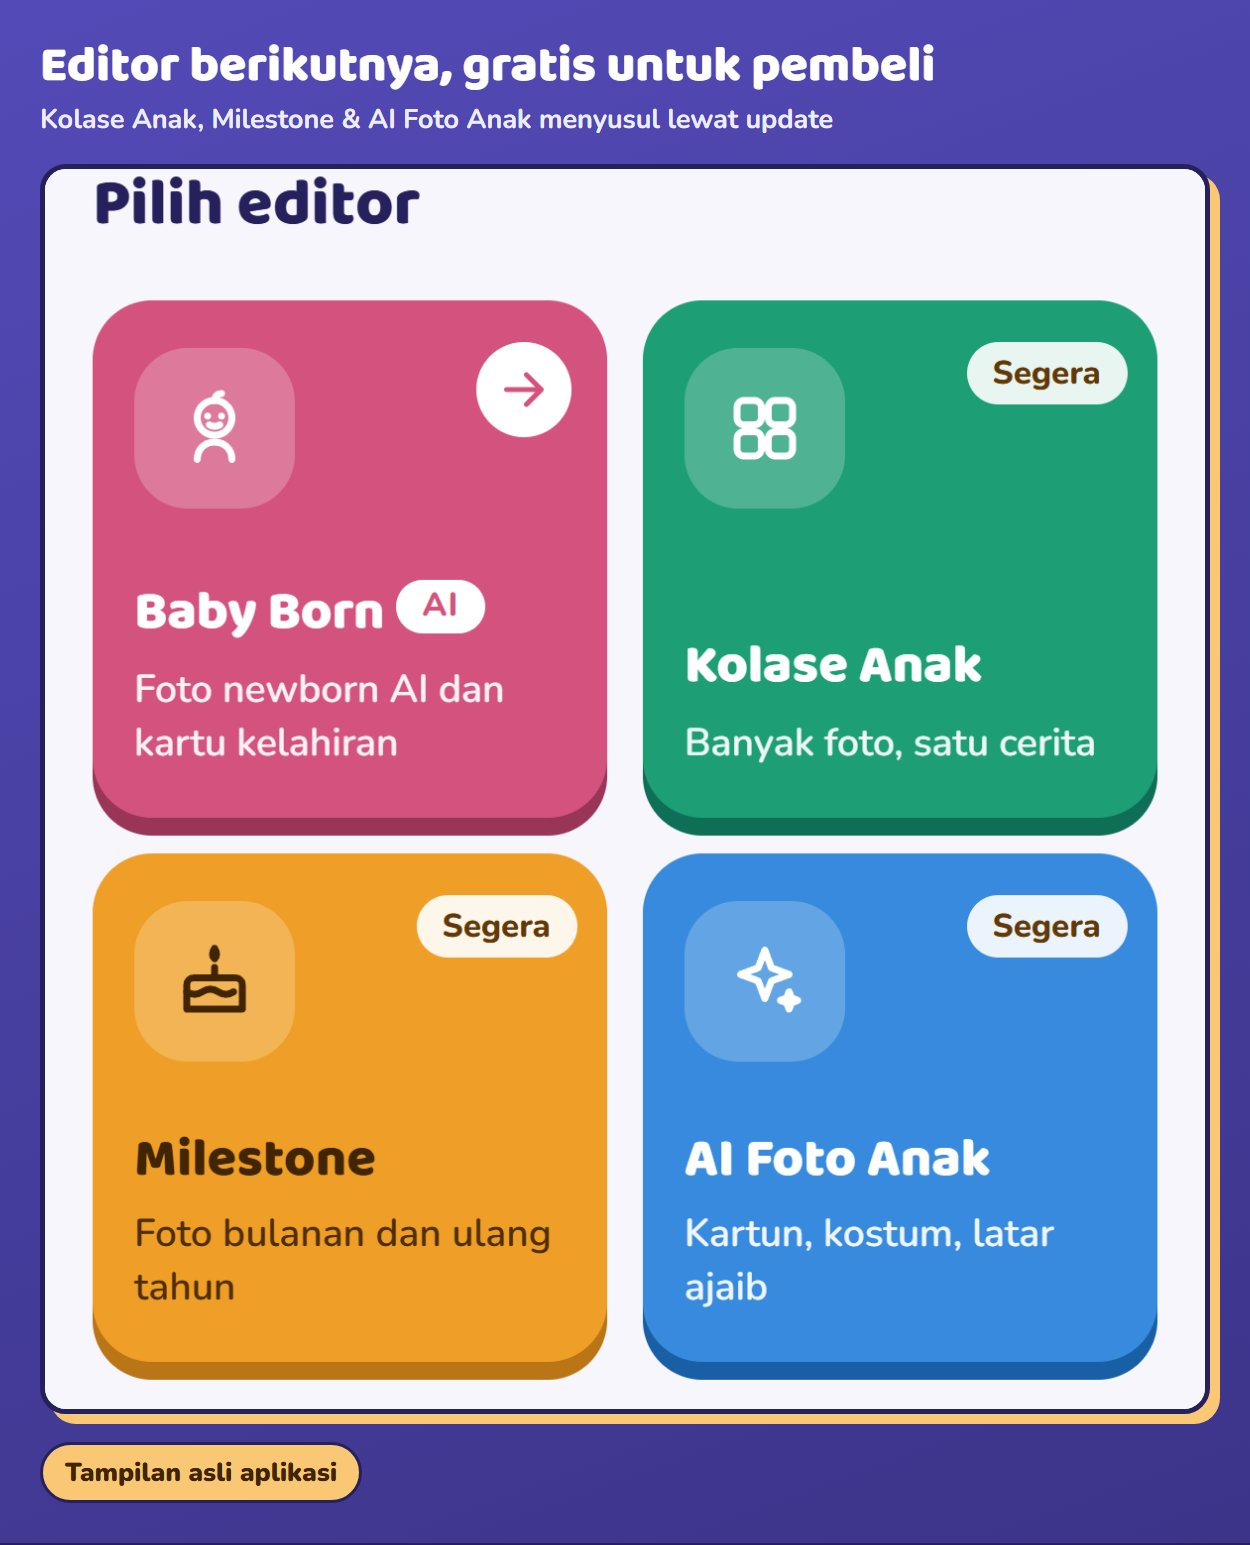
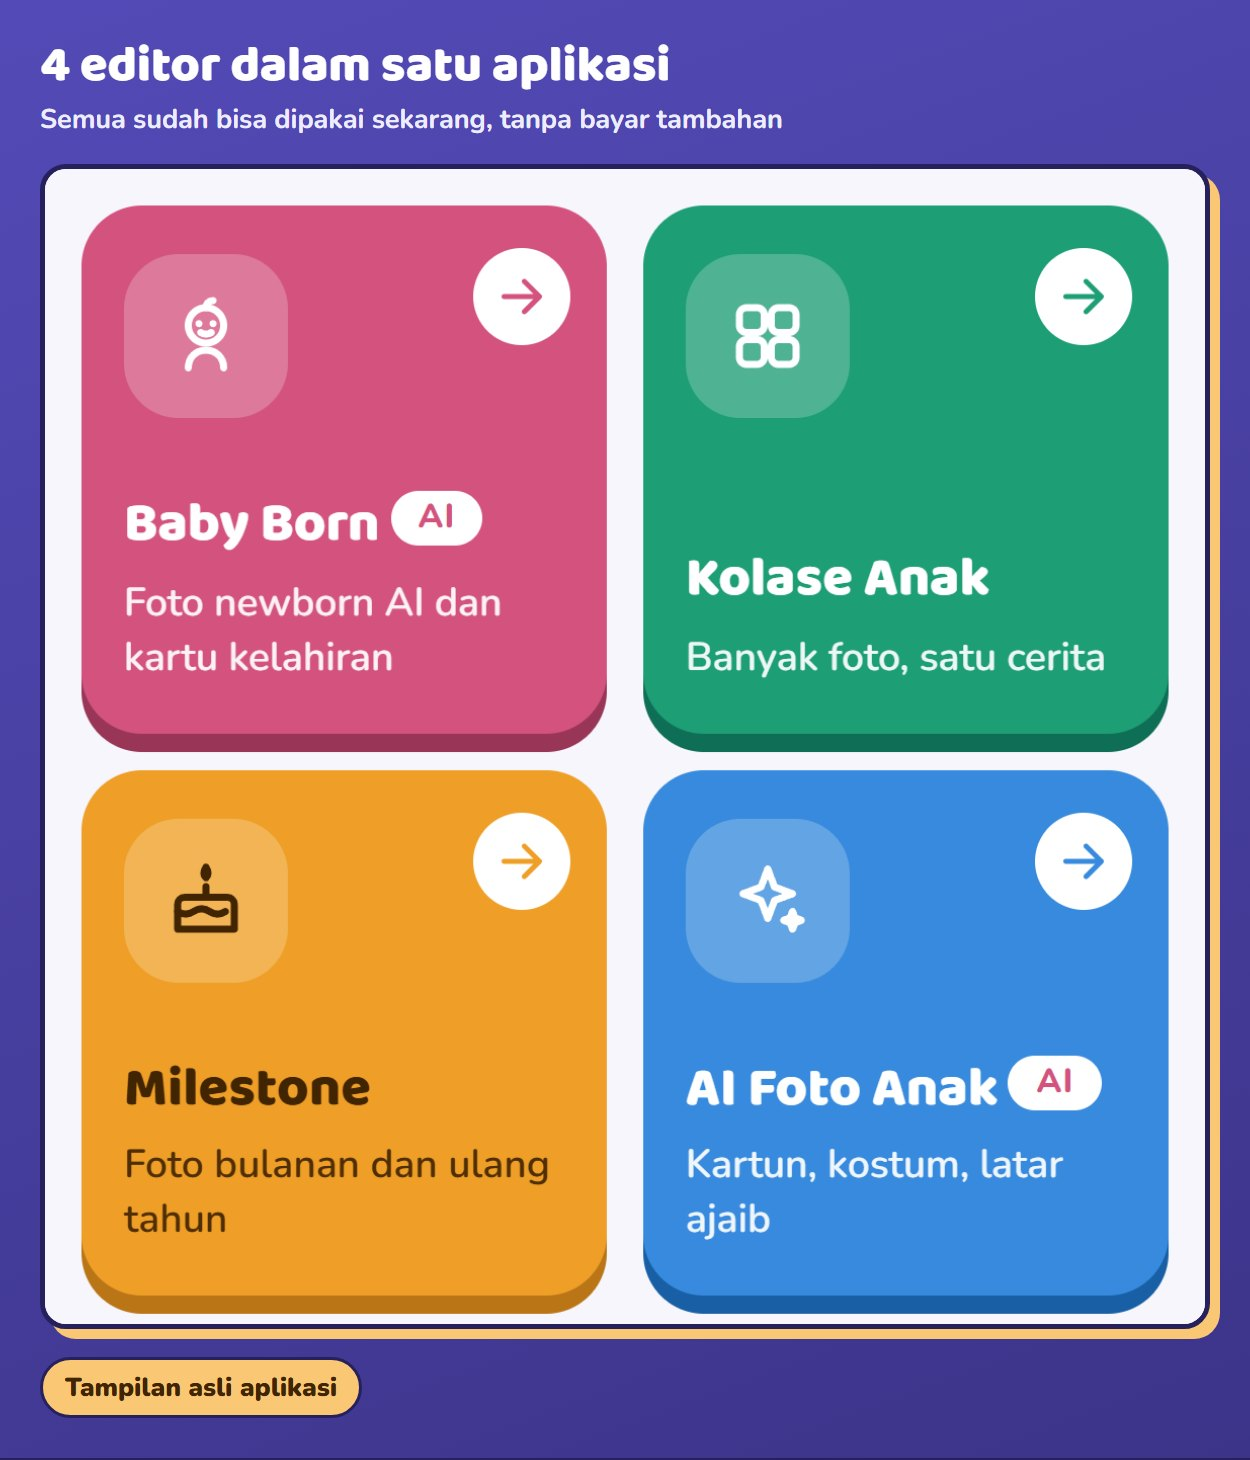
aset: LP AI STUDIO KIDS fitur lengkap (AI Foto Anak, Kolase, Milestone)

Changed region(s): [[0.0312, 0.0308, 0.9672, 0.9863]]

diff --git a/aset/ai-studio-kids/lp-lynk.html b/aset/ai-studio-kids/lp-lynk.html
@@ -1,15 +1,15 @@
 <div style="font-family:-apple-system,BlinkMacSystemFont,'Segoe UI',Roboto,Helvetica,Arial,sans-serif;max-width:600px;width:100%;margin:0 auto;box-sizing:border-box;padding:10px;background-color:#F7F6FD;">
 
   <div style="background-color:#26215C;border:2px solid #26215C;border-radius:10px;overflow:hidden;margin-bottom:12px;box-shadow:3px 3px 0 #FAC775;padding:9px 14px;text-align:center;">
-    <p style="margin:0;font-size:12px;font-weight:800;color:#FAC775;line-height:1.4;">👶 AI STUDIO KIDS &nbsp;·&nbsp; 🔥 Harga Perkenalan Rp99.000 &nbsp;·&nbsp; ✅ Sekali Bayar &nbsp;·&nbsp; 📱 Langsung dari HP</p>
+    <p style="margin:0;font-size:12px;font-weight:800;color:#FAC775;line-height:1.4;">👶 AI STUDIO KIDS &nbsp;·&nbsp; 🔥 Harga Perkenalan Rp99.000 &nbsp;·&nbsp; 🧩 4 Editor Lengkap &nbsp;·&nbsp; ✅ Sekali Bayar &nbsp;·&nbsp; 📱 Langsung dari HP</p>
   </div>
 
   <div style="background-color:#26215C;border:3px solid #26215C;border-radius:14px;overflow:hidden;margin-bottom:14px;box-shadow:6px 6px 0 #D4537E;">
     <img src="https://arulbarker.github.io/panduan/aset/ai-studio-kids/ks-sampul.jpg" alt="AI STUDIO KIDS" style="width:100%;display:block;">
     <div style="padding:18px 18px 16px;text-align:center;background:linear-gradient(160deg,#534AB7,#3C3489);">
-      <div style="display:inline-block;background-color:#FAC775;color:#412402;font-weight:900;font-size:11px;padding:5px 14px;border:2px solid #26215C;border-radius:20px;margin-bottom:12px;letter-spacing:.5px;">FOTO NEWBORN AI · KARTU KELAHIRAN · EDITOR</div>
+      <div style="display:inline-block;background-color:#FAC775;color:#412402;font-weight:900;font-size:11px;padding:5px 14px;border:2px solid #26215C;border-radius:20px;margin-bottom:12px;letter-spacing:.5px;">FOTO NEWBORN AI · FOTO ANAK AI · KOLASE · MILESTONE</div>
       <div style="font-size:20px;font-weight:900;color:#fff;margin:0 0 8px;line-height:1.3;">Foto Newborn Ala Studio, <span style="color:#FAC775;">Cukup dari HP</span></div>
-      <p style="margin:0;font-size:13px;font-weight:600;color:#EEEDFE;line-height:1.55;">Unggah satu foto si kecil → pilih tema → AI menyulapnya jadi foto newborn ala studio. Wajahnya tetap si kecil.</p>
+      <p style="margin:0;font-size:13px;font-weight:600;color:#EEEDFE;line-height:1.55;">Unggah satu foto si kecil → pilih tema → AI menyulapnya jadi foto newborn ala studio. Wajahnya tetap si kecil. Plus foto anak jadi kartun &amp; kostum impian, kolase, dan milestone bulanan.</p>
     </div>
   </div>
 
@@ -26,7 +26,7 @@
       <p style="margin:0;font-size:14px;font-weight:700;color:#26215C;line-height:1.5;">✗ Mau bikin kartu kelahiran untuk keluarga, tapi tidak bisa desain</p>
     </div>
     <div style="border-left:4px solid #D4537E;padding:10px 14px;background-color:#FBEAF0;border-radius:0 8px 8px 0;">
-      <p style="margin:0;font-size:14px;font-weight:700;color:#26215C;line-height:1.5;">✗ Foto di galeri HP banyak, tapi belum ada yang "jadi" untuk dibagikan</p>
+      <p style="margin:0;font-size:14px;font-weight:700;color:#26215C;line-height:1.5;">✗ Foto bulanan, ulang tahun &amp; liburan menumpuk di galeri HP, tapi belum ada yang "jadi" untuk dibagikan</p>
     </div>
   </div>
 
@@ -37,7 +37,7 @@
   <div style="background:linear-gradient(135deg,#534AB7,#3C3489);border:3px solid #26215C;border-radius:14px;padding:22px 18px;margin-bottom:14px;text-align:center;box-shadow:6px 6px 0 #26215C;">
     <p style="margin:0 0 6px;font-size:11px;font-weight:700;color:#FAC775;letter-spacing:2px;text-transform:uppercase;">Solusinya</p>
     <p style="font-size:24px;font-weight:900;color:#fff;margin:0 0 8px;letter-spacing:-1px;">AI STUDIO KIDS ✨</p>
-    <p style="margin:0 0 14px;font-size:13px;color:#EEEDFE;font-weight:500;line-height:1.7;">Aplikasi AI untuk orang tua: ubah foto si kecil jadi <strong style="color:#FAC775;">foto newborn ala studio</strong>, lalu jadikan <strong style="color:#FAC775;">kartu kelahiran</strong> yang siap dibagikan atau dicetak.</p>
+    <p style="margin:0 0 14px;font-size:13px;color:#EEEDFE;font-weight:500;line-height:1.7;">Aplikasi AI untuk orang tua: ubah foto si kecil jadi <strong style="color:#FAC775;">foto newborn ala studio</strong>, lalu jadikan <strong style="color:#FAC775;">kartu kelahiran</strong>. Saat si kecil tumbuh, ubah fotonya jadi <strong style="color:#FAC775;">kartun &amp; kostum impian</strong>, susun <strong style="color:#FAC775;">kolase</strong>, dan abadikan <strong style="color:#FAC775;">milestone</strong> tiap bulan.</p>
     <p style="margin:0;font-size:13px;font-weight:700;color:#fff;line-height:1.6;">Unggah foto → pilih tema → AI bekerja → simpan &amp; bagikan 🎉</p>
   </div>
 
@@ -47,8 +47,8 @@
       <p style="margin:3px 0 0;font-size:11px;color:#EEEDFE;font-weight:700;line-height:1.3;">Studio putih, keranjang rotan, bulan &amp; bintang,<br>kostum hewan, Islami, batik Nusantara, dan lainnya</p>
     </div>
     <div style="width:100%;background:linear-gradient(135deg,#D4537E,#E07A9E);border:2px solid #26215C;border-radius:10px;padding:14px 6px;text-align:center;box-shadow:4px 4px 0 #26215C;margin-bottom:8px;">
-      <p style="margin:0;font-size:18px;font-weight:900;color:#fff;">8 Desain Kartu Kelahiran</p>
-      <p style="margin:3px 0 0;font-size:11px;color:#fff;font-weight:700;line-height:1.3;">Tinggal isi nama, tanggal, berat &amp; panjang lahir</p>
+      <p style="margin:0;font-size:18px;font-weight:900;color:#fff;">4 Editor dalam 1 Aplikasi</p>
+      <p style="margin:3px 0 0;font-size:11px;color:#fff;font-weight:700;line-height:1.3;">Baby Born · AI Foto Anak · Kolase Anak · Milestone<br>semuanya sudah bisa dipakai</p>
     </div>
     <div style="width:100%;background:linear-gradient(135deg,#FAC775,#FDE3B0);border:2px solid #26215C;border-radius:10px;padding:14px 6px;text-align:center;box-shadow:4px 4px 0 #26215C;">
       <p style="margin:0;font-size:16px;font-weight:900;color:#26215C;">±20–60 Detik</p>
@@ -72,8 +72,26 @@
       <img src="https://arulbarker.github.io/panduan/aset/ai-studio-kids/ks-desain.jpg" alt="8 desain kartu kelahiran" style="width:100%;border-radius:8px;border:2px solid #26215C;display:block;">
     </div>
 
-    <div style="border:2px solid #26215C;border-radius:10px;padding:14px;box-shadow:4px 4px 0 #26215C;background:linear-gradient(135deg,#FAEEDA,#FDE3B0);">
-      <p style="margin:0 0 4px;font-size:14px;font-weight:900;color:#26215C;">🎨 3. Edit Bebas &amp; Simpan</p>
+    <div style="border:2px solid #26215C;border-radius:10px;padding:14px;margin-bottom:10px;box-shadow:4px 4px 0 #26215C;background:linear-gradient(135deg,#E6F1FB,#CFE3F7);">
+      <p style="margin:0 0 4px;font-size:14px;font-weight:900;color:#26215C;">🪄 3. AI Foto Anak</p>
+      <p style="margin:0 0 8px;font-size:12px;color:#44403c;font-weight:500;line-height:1.55;">Ubah foto si kecil jadi <strong>kartun</strong> (3D, anime, cat air, buku cerita), pakai <strong>kostum impian</strong> (astronaut, putri, pangeran, pahlawan super, dokter, pilot, pemadam kebakaran), pindah ke <strong>latar ajaib</strong> (luar angkasa, bawah laut, hutan dongeng, istana), atau <strong>hapus latar</strong> jadi polos rapi. Total 17 gaya, pakaian selalu sopan.</p>
+      <img src="https://arulbarker.github.io/panduan/aset/ai-studio-kids/ks-aianak.jpg" alt="AI Foto Anak 17 gaya" style="width:100%;border-radius:8px;border:2px solid #26215C;display:block;">
+    </div>
+
+    <div style="border:2px solid #26215C;border-radius:10px;padding:14px;margin-bottom:10px;box-shadow:4px 4px 0 #26215C;background:linear-gradient(135deg,#E1F5EE,#C9EEDF);">
+      <p style="margin:0 0 4px;font-size:14px;font-weight:900;color:#26215C;">🧩 4. Kolase Anak</p>
+      <p style="margin:0 0 8px;font-size:12px;color:#44403c;font-weight:500;line-height:1.55;">Pilih 2–12 foto sekaligus, tulis judul acara (Liburan Seru, Hari Pertama Sekolah, Lebaran, dan lainnya), lalu pilih dari <strong>12 tata letak</strong>: grid, mozaik, polaroid, scrapbook, film strip, bentuk hati, dan lainnya. Atur warna, jarak, dan sudut foto.</p>
+      <img src="https://arulbarker.github.io/panduan/aset/ai-studio-kids/ks-kolase.jpg" alt="Kolase Anak 12 tata letak" style="width:100%;border-radius:8px;border:2px solid #26215C;display:block;">
+    </div>
+
+    <div style="border:2px solid #26215C;border-radius:10px;padding:14px;margin-bottom:10px;box-shadow:4px 4px 0 #26215C;background:linear-gradient(135deg,#FAEEDA,#FDE3B0);">
+      <p style="margin:0 0 4px;font-size:14px;font-weight:900;color:#26215C;">🎂 5. Milestone</p>
+      <p style="margin:0 0 8px;font-size:12px;color:#44403c;font-weight:500;line-height:1.55;">Foto <strong>bulanan</strong> (1–12 bulan), <strong>ulang tahun</strong>, dan <strong>momen pertama</strong> (gigi, langkah, kata pertama). Umur terisi otomatis, ada berat, tinggi &amp; "Sekarang aku bisa…". <strong>10 desain</strong>, termasuk Dulu &amp; Sekarang. Bulan depan cukup ketuk <strong>Lanjutkan seri</strong>: gayanya tetap, tinggal ganti foto.</p>
+      <img src="https://arulbarker.github.io/panduan/aset/ai-studio-kids/ks-milestone.jpg" alt="Milestone 10 desain" style="width:100%;border-radius:8px;border:2px solid #26215C;display:block;">
+    </div>
+
+    <div style="border:2px solid #26215C;border-radius:10px;padding:14px;box-shadow:4px 4px 0 #26215C;background:linear-gradient(135deg,#EEEDFE,#E2DFFB);">
+      <p style="margin:0 0 4px;font-size:14px;font-weight:900;color:#26215C;">🎨 6. Edit Bebas &amp; Simpan</p>
       <p style="margin:0;font-size:12px;color:#44403c;font-weight:500;line-height:1.55;">Ubah teks, tambah stiker, ganti latar. Unduh PNG/JPG atau PDF siap cetak. Karya tersimpan di <strong>Proyekku</strong>, dan data si kecil di <strong>Profil Anak</strong> terisi otomatis di semua editor.</p>
     </div>
 
@@ -83,10 +101,10 @@
   </div>
 
   <div style="background-color:#fff;border:3px solid #26215C;border-radius:14px;padding:20px 18px;margin-bottom:14px;box-shadow:6px 6px 0 #1D9E75;">
-    <p style="font-size:17px;font-weight:900;color:#26215C;margin:0 0 6px;">🎁 Editor Berikutnya, Gratis untuk Pembeli</p>
-    <p style="margin:0 0 12px;font-size:12px;color:#6E6A8E;font-weight:500;line-height:1.6;">Sekali bayar sekarang, editor baru yang menyusul ikut kamu dapat lewat update, tanpa bayar lagi.</p>
-    <img src="https://arulbarker.github.io/panduan/aset/ai-studio-kids/ks-editor.jpg" alt="Editor yang menyusul" style="width:100%;border-radius:8px;border:2px solid #26215C;display:block;margin-bottom:10px;">
-    <p style="margin:0;font-size:12px;color:#44403c;font-weight:600;line-height:1.6;">🧩 <strong>Kolase Anak</strong> · 🎂 <strong>Milestone</strong> (foto bulanan &amp; ulang tahun) · 🪄 <strong>AI Foto Anak</strong> (kartun, kostum, latar ajaib)</p>
+    <p style="font-size:17px;font-weight:900;color:#26215C;margin:0 0 6px;">✅ 4 Editor, Semua Sudah Tersedia</p>
+    <p style="margin:0 0 12px;font-size:12px;color:#6E6A8E;font-weight:500;line-height:1.6;">Bukan janji "menyusul": setelah bayar, keempat editor langsung bisa kamu pakai. Satu aplikasi, sekali bayar.</p>
+    <img src="https://arulbarker.github.io/panduan/aset/ai-studio-kids/ks-editor.jpg" alt="4 editor dalam satu aplikasi" style="width:100%;border-radius:8px;border:2px solid #26215C;display:block;margin-bottom:10px;">
+    <p style="margin:0;font-size:12px;color:#44403c;font-weight:600;line-height:1.6;">👶 <strong>Baby Born</strong> · 🪄 <strong>AI Foto Anak</strong> · 🧩 <strong>Kolase Anak</strong> · 🎂 <strong>Milestone</strong></p>
   </div>
 
   <div style="background-color:#fff;border:3px solid #26215C;border-radius:14px;padding:20px 18px;margin-bottom:14px;box-shadow:6px 6px 0 #26215C;">
@@ -106,10 +124,20 @@
       <p style="margin:4px 0 2px;font-size:14px;font-weight:800;color:#26215C;">Kartu Kelahiran · 8 desain</p>
       <p style="margin:0;font-size:11px;color:#6E6A8E;">Editor teks, stiker, latar · unduh PNG/JPG/PDF siap cetak</p>
     </div>
+    <div style="display:block;padding:11px 0;border-bottom:1px solid #ECEAF6;">
+      <span style="background-color:#26215C;color:#FAC775;font-weight:900;font-size:11px;padding:3px 8px;border:2px solid #26215C;border-radius:4px;">✓</span>
+      <p style="margin:4px 0 2px;font-size:14px;font-weight:800;color:#26215C;">AI Foto Anak · 17 gaya</p>
+      <p style="margin:0;font-size:11px;color:#6E6A8E;">Kartun, kostum impian, latar ajaib, hapus latar</p>
+    </div>
+    <div style="display:block;padding:11px 0;border-bottom:1px solid #ECEAF6;">
+      <span style="background-color:#26215C;color:#FAC775;font-weight:900;font-size:11px;padding:3px 8px;border:2px solid #26215C;border-radius:4px;">✓</span>
+      <p style="margin:4px 0 2px;font-size:14px;font-weight:800;color:#26215C;">Kolase Anak · 12 tata letak</p>
+      <p style="margin:0;font-size:11px;color:#6E6A8E;">2–12 foto, judul acara, warna, jarak &amp; sudut</p>
+    </div>
     <div style="display:block;padding:11px 0;">
-      <span style="background-color:#D4537E;color:#fff;font-weight:900;font-size:11px;padding:3px 8px;border:2px solid #26215C;border-radius:4px;">🎁</span>
-      <p style="margin:4px 0 2px;font-size:14px;font-weight:800;color:#D4537E;">Update editor baru gratis</p>
-      <p style="margin:0;font-size:11px;color:#6E6A8E;">Kolase Anak, Milestone, AI Foto Anak</p>
+      <span style="background-color:#26215C;color:#FAC775;font-weight:900;font-size:11px;padding:3px 8px;border:2px solid #26215C;border-radius:4px;">✓</span>
+      <p style="margin:4px 0 2px;font-size:14px;font-weight:800;color:#26215C;">Milestone · 10 desain</p>
+      <p style="margin:0;font-size:11px;color:#6E6A8E;">Bulanan, ulang tahun, momen pertama, lanjutkan seri</p>
     </div>
   </div>
 
@@ -133,11 +161,11 @@
     <p style="font-size:17px;font-weight:900;color:#26215C;margin:0 0 16px;padding-bottom:10px;border-bottom:3px solid #26215C;">❓ Pertanyaan yang Sering Ditanya</p>
     <div style="border-left:4px solid #534AB7;padding:12px 14px;margin-bottom:12px;background-color:#EEEDFE;border-radius:0 10px 10px 0;">
       <p style="margin:0 0 6px;font-size:14px;font-weight:900;color:#26215C;">Apakah benar sekali bayar?</p>
-      <p style="margin:0;font-size:12px;color:#6E6A8E;font-weight:500;line-height:1.55;">Ya. <strong>Rp99.000 sekali bayar</strong>, tanpa biaya bulanan. Editor baru yang menyusul juga gratis untuk pembeli.</p>
+      <p style="margin:0;font-size:12px;color:#6E6A8E;font-weight:500;line-height:1.55;">Ya. <strong>Rp99.000 sekali bayar</strong>, tanpa biaya bulanan. Keempat editor (Baby Born, AI Foto Anak, Kolase Anak, Milestone) sudah termasuk.</p>
     </div>
     <div style="border-left:4px solid #534AB7;padding:12px 14px;margin-bottom:12px;background-color:#EEEDFE;border-radius:0 10px 10px 0;">
       <p style="margin:0 0 6px;font-size:14px;font-weight:900;color:#26215C;">Apakah wajah si kecil tetap sama?</p>
-      <p style="margin:0;font-size:12px;color:#6E6A8E;font-weight:500;line-height:1.55;">AI diarahkan untuk menjaga wajah si kecil tetap sama, selalu berpakaian rapi, dengan pose aman. Hasil terbaik dari foto yang wajahnya terlihat jelas dan cahayanya cukup. Hasil AI bisa berbeda tiap kali, jadi kamu bisa membuat beberapa variasi dan memilih yang paling mirip.</p>
+      <p style="margin:0;font-size:12px;color:#6E6A8E;font-weight:500;line-height:1.55;">AI diarahkan untuk menjaga wajah si kecil tetap sama, selalu berpakaian rapi, dengan pose aman. Hasil terbaik dari foto yang wajahnya terlihat jelas dan cahayanya cukup. Hasil AI bisa berbeda tiap kali, jadi kamu bisa membuat beberapa variasi dan memilih yang paling mirip. Untuk gaya kartun &amp; kostum, wajah bisa sedikit berbeda karena ikut digambar ulang sesuai gayanya.</p>
     </div>
     <div style="border-left:4px solid #534AB7;padding:12px 14px;margin-bottom:12px;background-color:#EEEDFE;border-radius:0 10px 10px 0;">
       <p style="margin:0 0 6px;font-size:14px;font-weight:900;color:#26215C;">Perlu install aplikasi?</p>
@@ -164,9 +192,11 @@
       <p style="margin:0 0 10px;font-size:12px;font-weight:700;color:#FAC775;text-transform:uppercase;letter-spacing:.5px;">Yang kamu dapatkan:</p>
       <p style="margin:0 0 6px;font-size:13px;color:#EEEDFE;font-weight:500;">✓ Foto Newborn AI · 12 tema</p>
       <p style="margin:0 0 6px;font-size:13px;color:#EEEDFE;font-weight:500;">✓ Kartu Kelahiran · 8 desain + editor</p>
+      <p style="margin:0 0 6px;font-size:13px;color:#EEEDFE;font-weight:500;">✓ AI Foto Anak · 17 gaya</p>
+      <p style="margin:0 0 6px;font-size:13px;color:#EEEDFE;font-weight:500;">✓ Kolase Anak · 12 tata letak</p>
+      <p style="margin:0 0 6px;font-size:13px;color:#EEEDFE;font-weight:500;">✓ Milestone · 10 desain</p>
       <p style="margin:0 0 6px;font-size:13px;color:#EEEDFE;font-weight:500;">✓ Unduh PNG/JPG/PDF siap cetak</p>
-      <p style="margin:0 0 6px;font-size:13px;color:#EEEDFE;font-weight:500;">✓ Login email · 2 perangkat</p>
-      <p style="margin:0;font-size:13px;color:#FAC775;font-weight:700;">🎁 Update editor baru gratis</p>
+      <p style="margin:0;font-size:13px;color:#EEEDFE;font-weight:500;">✓ Login email · 2 perangkat</p>
     </div>
     <p style="margin:0 0 2px;font-size:13px;font-weight:700;color:#B7B2E0;text-decoration:line-through;">Harga Normal: Rp199.000</p>
     <p style="margin:0 0 4px;font-size:50px;font-weight:900;color:#FAC775;line-height:1;text-shadow:0 0 28px rgba(250,199,117,.35);">Rp99.000</p>
@@ -191,7 +221,7 @@
 
   <div style="background-color:#26215C;border:3px solid #26215C;border-radius:14px;padding:18px;text-align:center;">
     <p style="margin:0 0 6px;font-size:15px;font-weight:900;color:#FAC775;">AI STUDIO KIDS ✨</p>
-    <p style="margin:0 0 4px;font-size:12px;font-weight:700;color:#EEEDFE;">Foto newborn AI &amp; kartu kelahiran untuk orang tua</p>
+    <p style="margin:0 0 4px;font-size:12px;font-weight:700;color:#EEEDFE;">Foto newborn AI, foto anak AI, kolase &amp; milestone untuk orang tua</p>
     <p style="margin:0 0 8px;font-size:12px;font-weight:600;color:#EEEDFE;">Rp99.000 · Sekali Bayar · Langsung dari HP</p>
     <div style="height:1px;background:rgba(255,255,255,.1);margin:10px 0;"></div>
     <p style="margin:0;font-size:10px;color:#8E89C2;">© 2026 arul.cg · lynk.id/arullagi</p>
